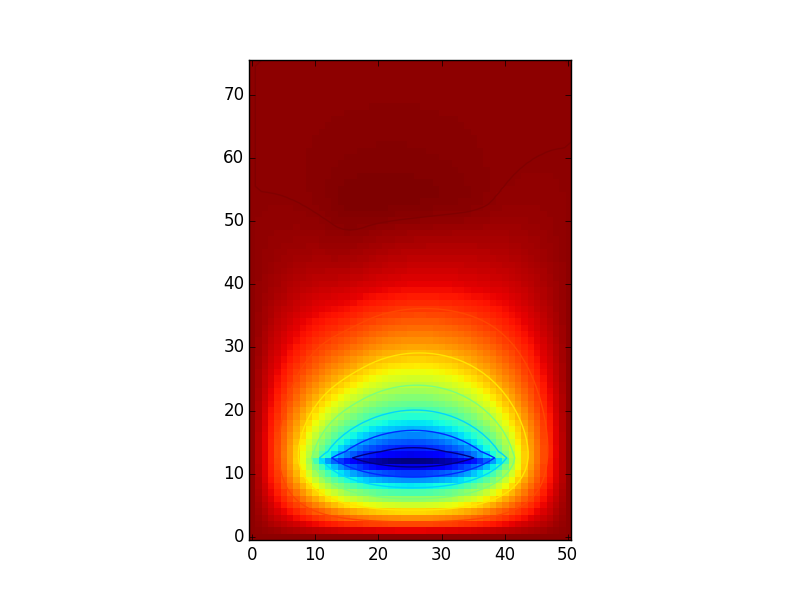
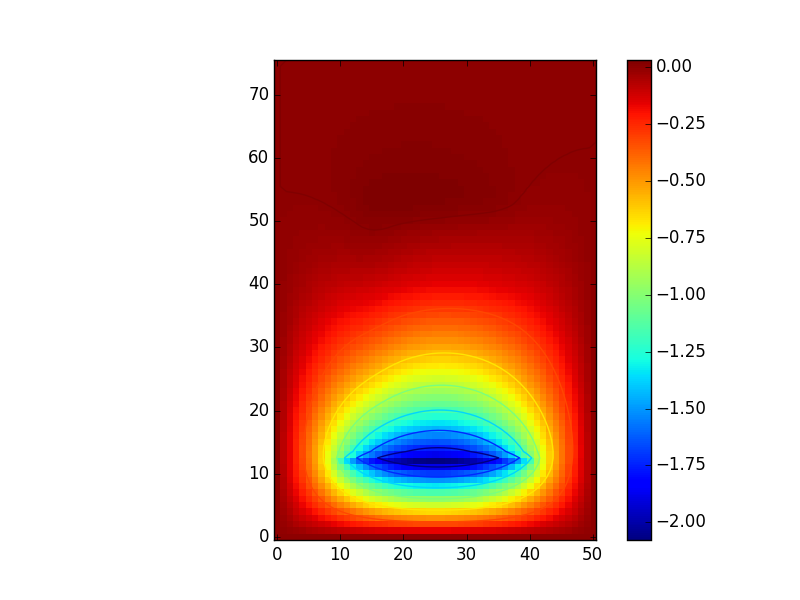
los codigos pasan pep8

Changed region(s): [[0.2812, 0.09, 0.75, 0.93], [0.7812, 0.09, 0.875, 0.93], [0.4688, 0.9, 0.5938, 0.93]]

diff --git a/tarea5_w_1.py b/tarea5_w_1.py
@@ -121,7 +121,8 @@ plt.savefig('plot_surface_10.png')
 fig2 = plt.figure(2)
 fig2.clf()
 ax2 = fig2.add_subplot(111)
-ax2.imshow(v_next_rotada, origin='bottom', interpolation='nearest')
+ax2_2 = ax2.imshow(v_next_rotada, origin='bottom', interpolation='nearest')
 ax2.contour(v_next_rotada, origin='lower')
+cbar = fig2.colorbar(ax2_2)
 fig2.show()
 plt.savefig('plot_imshow_10.png')

diff --git a/tarea5_distintosw.py b/tarea5_distintosw.py
@@ -92,7 +92,7 @@ N_pasos_x = int(Lx / h + 1)
 N_pasos_y = int(Ly / h + 1)
 
 
-w=[0.8, 1.0, 1.2, 1.4, 1.8]
+w = [0.8, 1.0, 1.2, 1.4, 1.8]
 for w in w:
     v = np.zeros((N_pasos_x, N_pasos_y))
     v_next = np.zeros((N_pasos_x, N_pasos_y))
